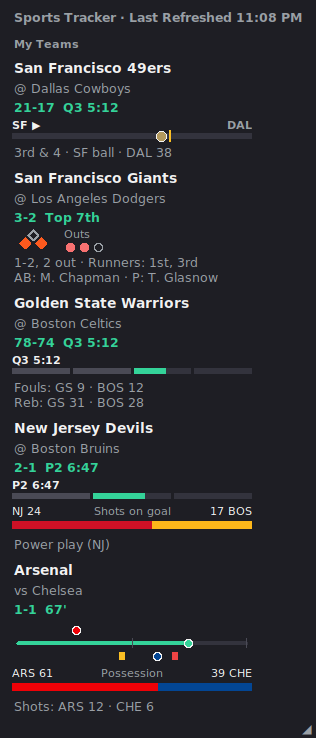
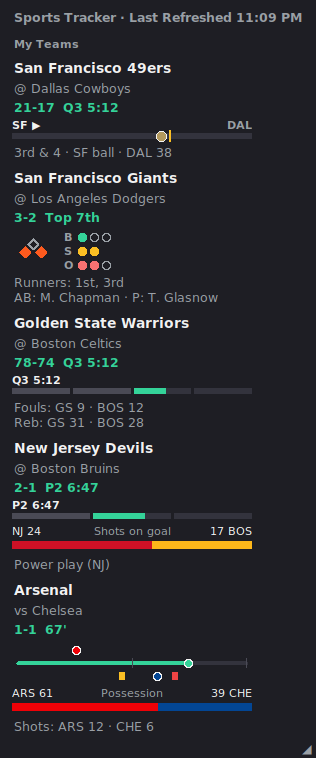
Baseball: ball, strike and out dots beside the base diamond
Claude-Session: https://claude.ai/code/session_01J2oDKnQWBXX8cHoFmZ2HA2

diff --git a/sports-widget/sports_widget.py b/sports-widget/sports_widget.py
@@ -144,8 +144,7 @@ def situation_text(sport, comp):
         lines.append(" · ".join(p for p in parts if p))
     elif sport == "baseball" and ("balls" in sit or "outs" in sit):
         bases = [n for n, k in (("1st", "onFirst"), ("2nd", "onSecond"), ("3rd", "onThird")) if sit.get(k)]
-        lines.append(" · ".join([f'{sit.get("balls", 0)}-{sit.get("strikes", 0)}, {sit.get("outs", 0)} out',
-                                 "Runners: " + ", ".join(bases) if bases else "Bases empty"]))
+        lines.append("Runners: " + ", ".join(bases) if bases else "Bases empty")
         who = []
         for label, k in (("AB", "batter"), ("P", "pitcher")):
             a = (sit.get(k) or {}).get("athlete", sit.get(k) or {})
@@ -173,7 +172,8 @@ def _situation_graphic(sport, comp):
         side = "away" if half.startswith("top") else "home" if half.startswith("bot") else ""
         batting = next((c for c in comp.get("competitors", []) if c.get("homeAway") == side), {})
         return {"kind": "baseball", "bases": [bool(sit.get(k)) for k in ("onFirst", "onSecond", "onThird")],
-                "outs": int(sit.get("outs") or 0), "color": team_colors(batting, "#fbbf24") if batting else "#fbbf24"}
+                "outs": int(sit.get("outs") or 0), "balls": int(sit.get("balls") or 0),
+                "strikes": int(sit.get("strikes") or 0), "color": team_colors(batting, "#fbbf24") if batting else "#fbbf24"}
     if sport == "football" and sit:
         teams = {}
         for c in comp.get("competitors", []):
@@ -828,17 +828,23 @@ def run_gui():
             c.create_oval(px(g["minute"]) - 4, 18, px(g["minute"]) + 4, 26, fill="#34d399", outline=FG)
             c.pack(anchor="w", pady=(2, 0))
         elif g["kind"] == "baseball":
-            c = tk.Canvas(parent, width=130, height=24, bg=BG, highlightthickness=0)
+            c = tk.Canvas(parent, width=130, height=44, bg=BG, highlightthickness=0)
             def base(cx, cy, on):
                 r = 5
                 hl = g.get("color", "#fbbf24")
                 c.create_polygon(cx, cy - r, cx + r, cy, cx, cy + r, cx - r, cy, fill=hl if on else BG,
                                  outline=hl if on else DIM, width=2)
-            base(21, 6, g["bases"][1]); base(29, 14, g["bases"][0]); base(13, 14, g["bases"][2])
-            c.create_text(52, 5, text="Outs", anchor="w", fill=DIM, font=("Segoe UI", 8))
-            for i in range(3):
-                c.create_oval(54 + i * 14, 14, 62 + i * 14, 22, fill="#f87171" if i < g["outs"] else BG,
-                              outline="#f87171" if i < g["outs"] else DIM, width=1)
+            base(21, 15, g["bases"][1]); base(29, 23, g["bases"][0]); base(13, 23, g["bases"][2])
+            # count: balls (0-3), strikes (0-2), outs (0-3)
+            for row, (label, n, total, color) in enumerate((("B", min(g["balls"], 3), 3, "#34d399"),
+                                                            ("S", min(g["strikes"], 2), 2, "#fbbf24"),
+                                                            ("O", min(g["outs"], 3), 3, "#f87171"))):
+                y = 8 + row * 14
+                c.create_text(52, y, text=label, anchor="w", fill=DIM, font=("Segoe UI", 8, "bold"))
+                for i in range(total):
+                    on = i < n
+                    c.create_oval(66 + i * 12, y - 4, 74 + i * 12, y + 4, fill=color if on else BG,
+                                  outline=color if on else DIM, width=1)
             c.pack(anchor="w", pady=(2, 0))
         elif g["kind"] == "football":
             W, H = 240, 24

diff --git a/sports-widget/README.md b/sports-widget/README.md
@@ -34,5 +34,5 @@ Playoffs has a **Live** section (opens automatically whenever a game goes live),
 Right-click → **Settings...** to adjust opacity (30-100%) and refresh cadence (15 seconds to 15 minutes). Live MLB games show a base diamond with outs; live NFL games show a field-position strip (ball, first-down line, red zone).
 
 ## Live-game graphics
-Football: field-position strip. Baseball: base diamond and outs. Basketball/hockey: period progress bar. Hockey: shots-on-goal comparison. Soccer: match timeline (goals, cards) and possession bar.
+Football: field-position strip. Baseball: base diamond plus ball/strike/out dots. Basketball/hockey: period progress bar. Hockey: shots-on-goal comparison. Soccer: match timeline (goals, cards) and possession bar.
 Preview them with fake data: `python sports_widget.py --demo` (see `demo.png`).
